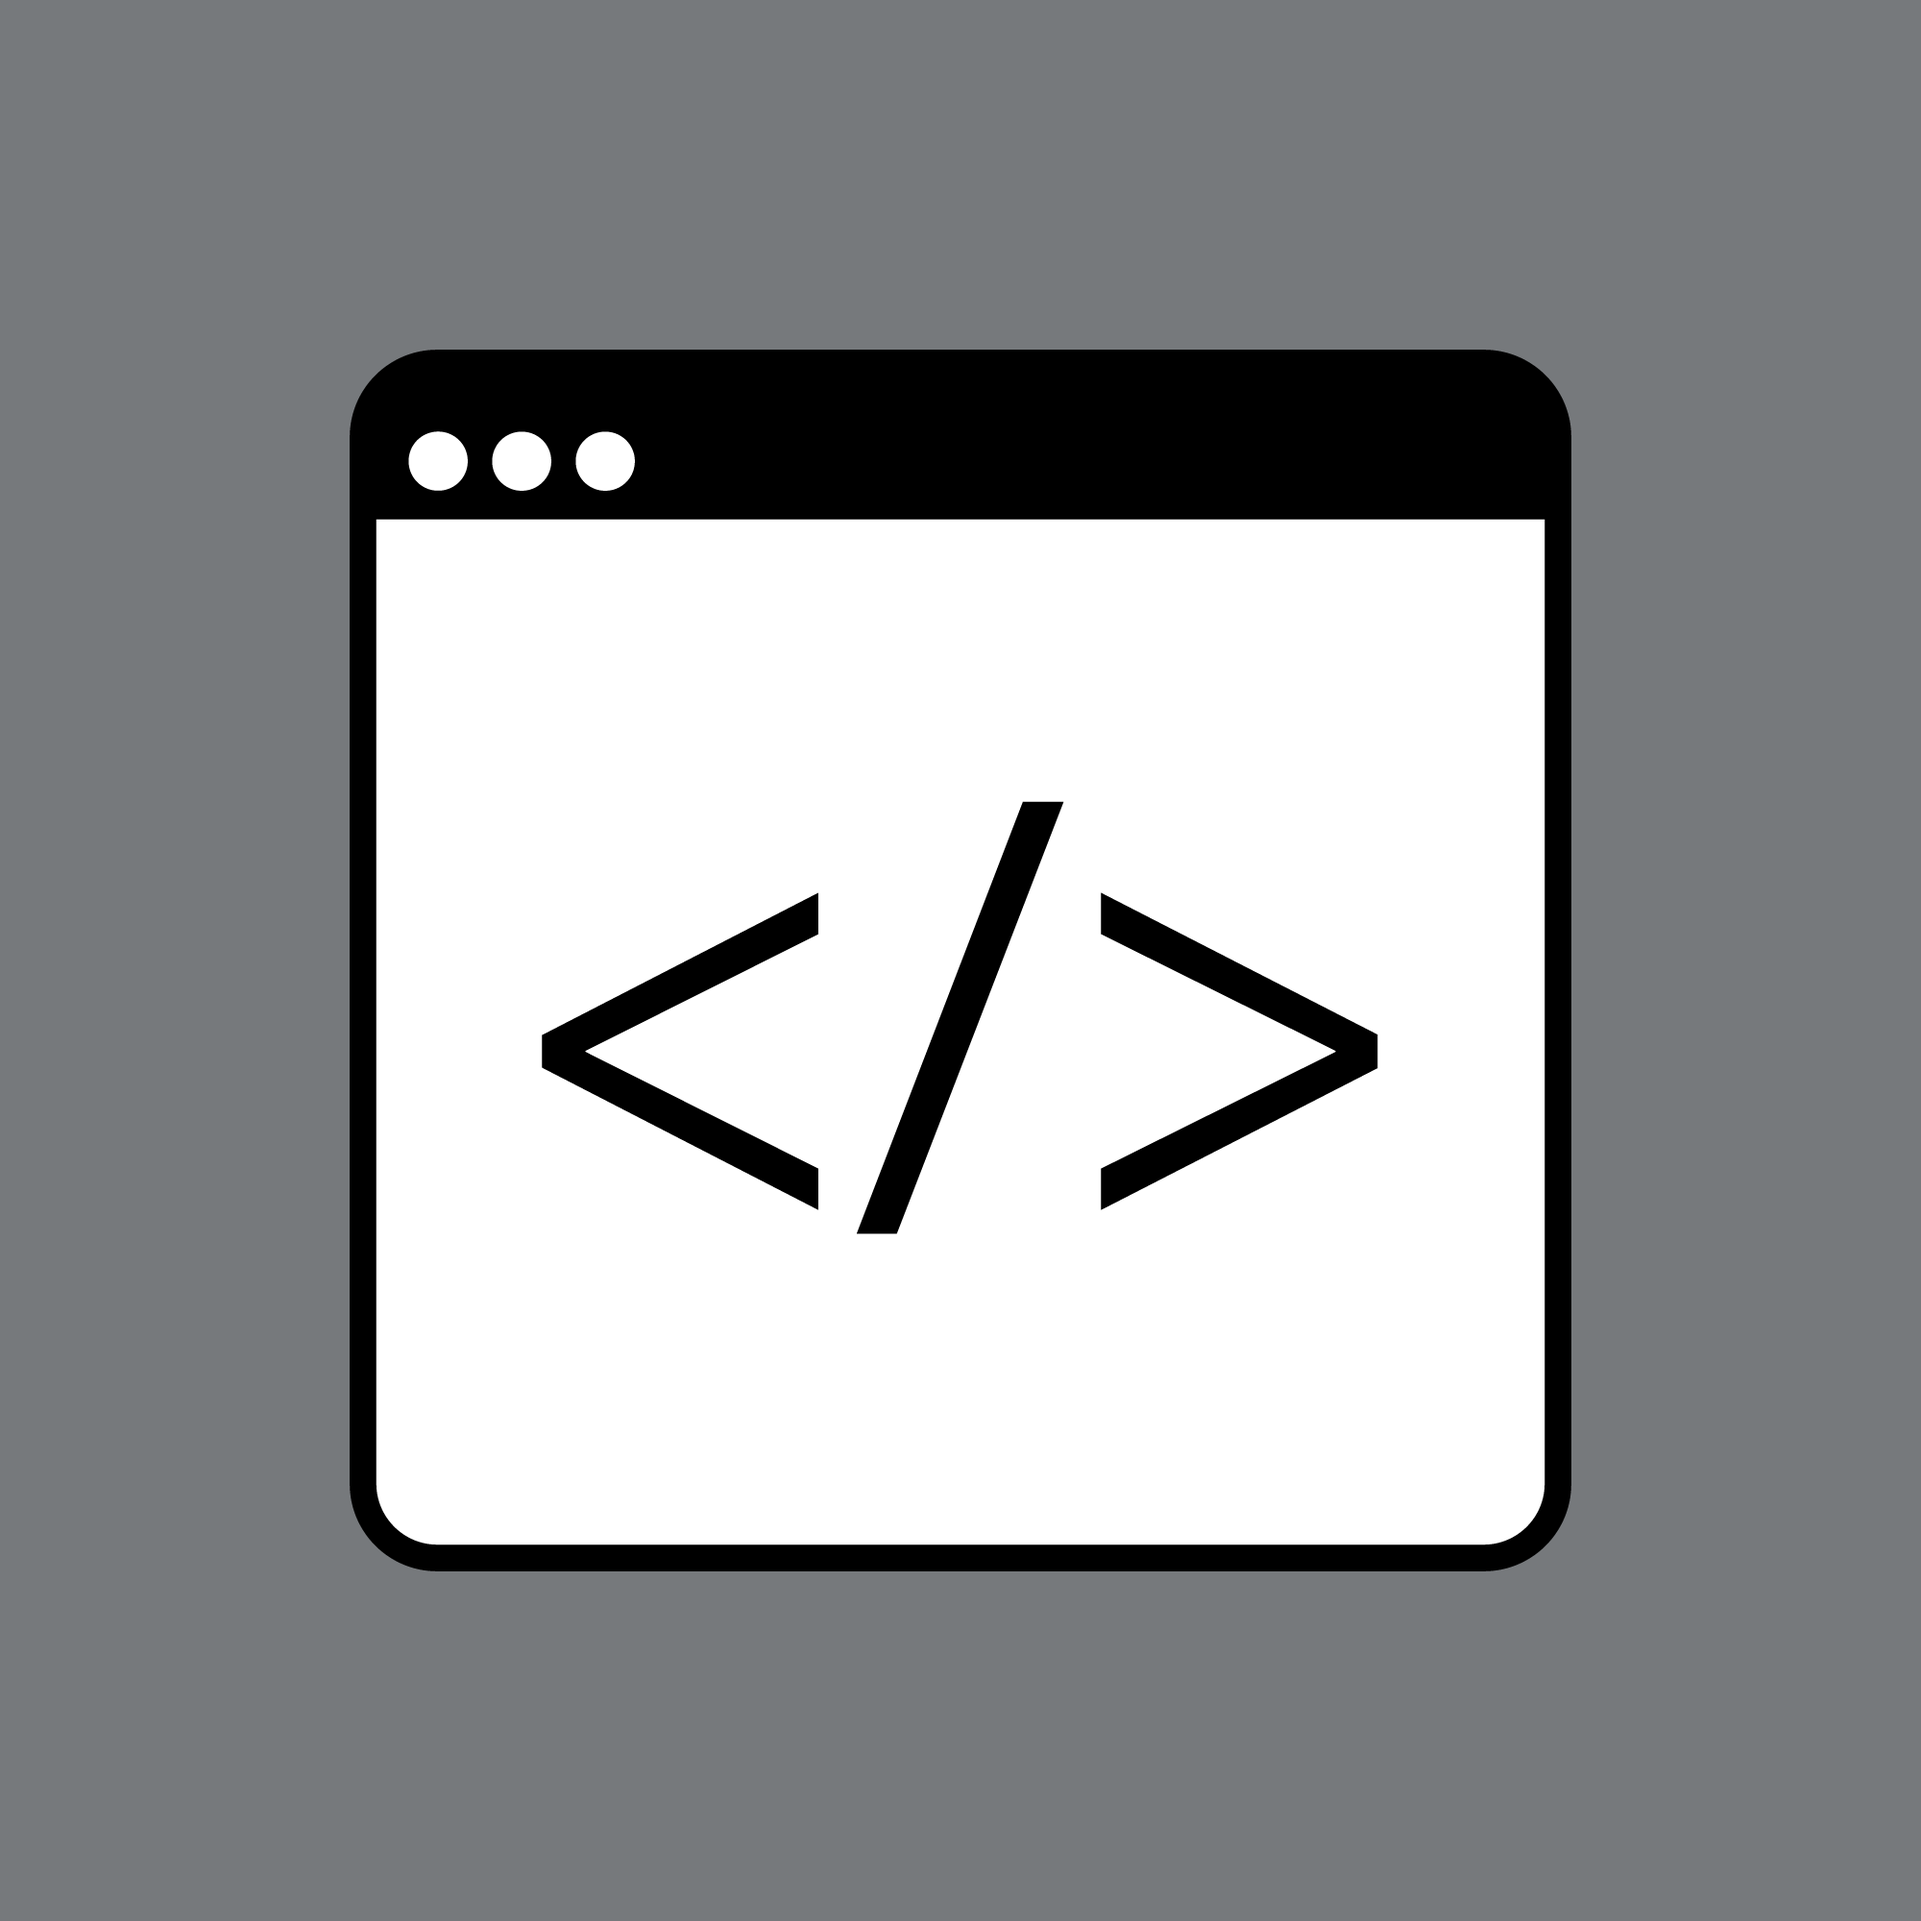
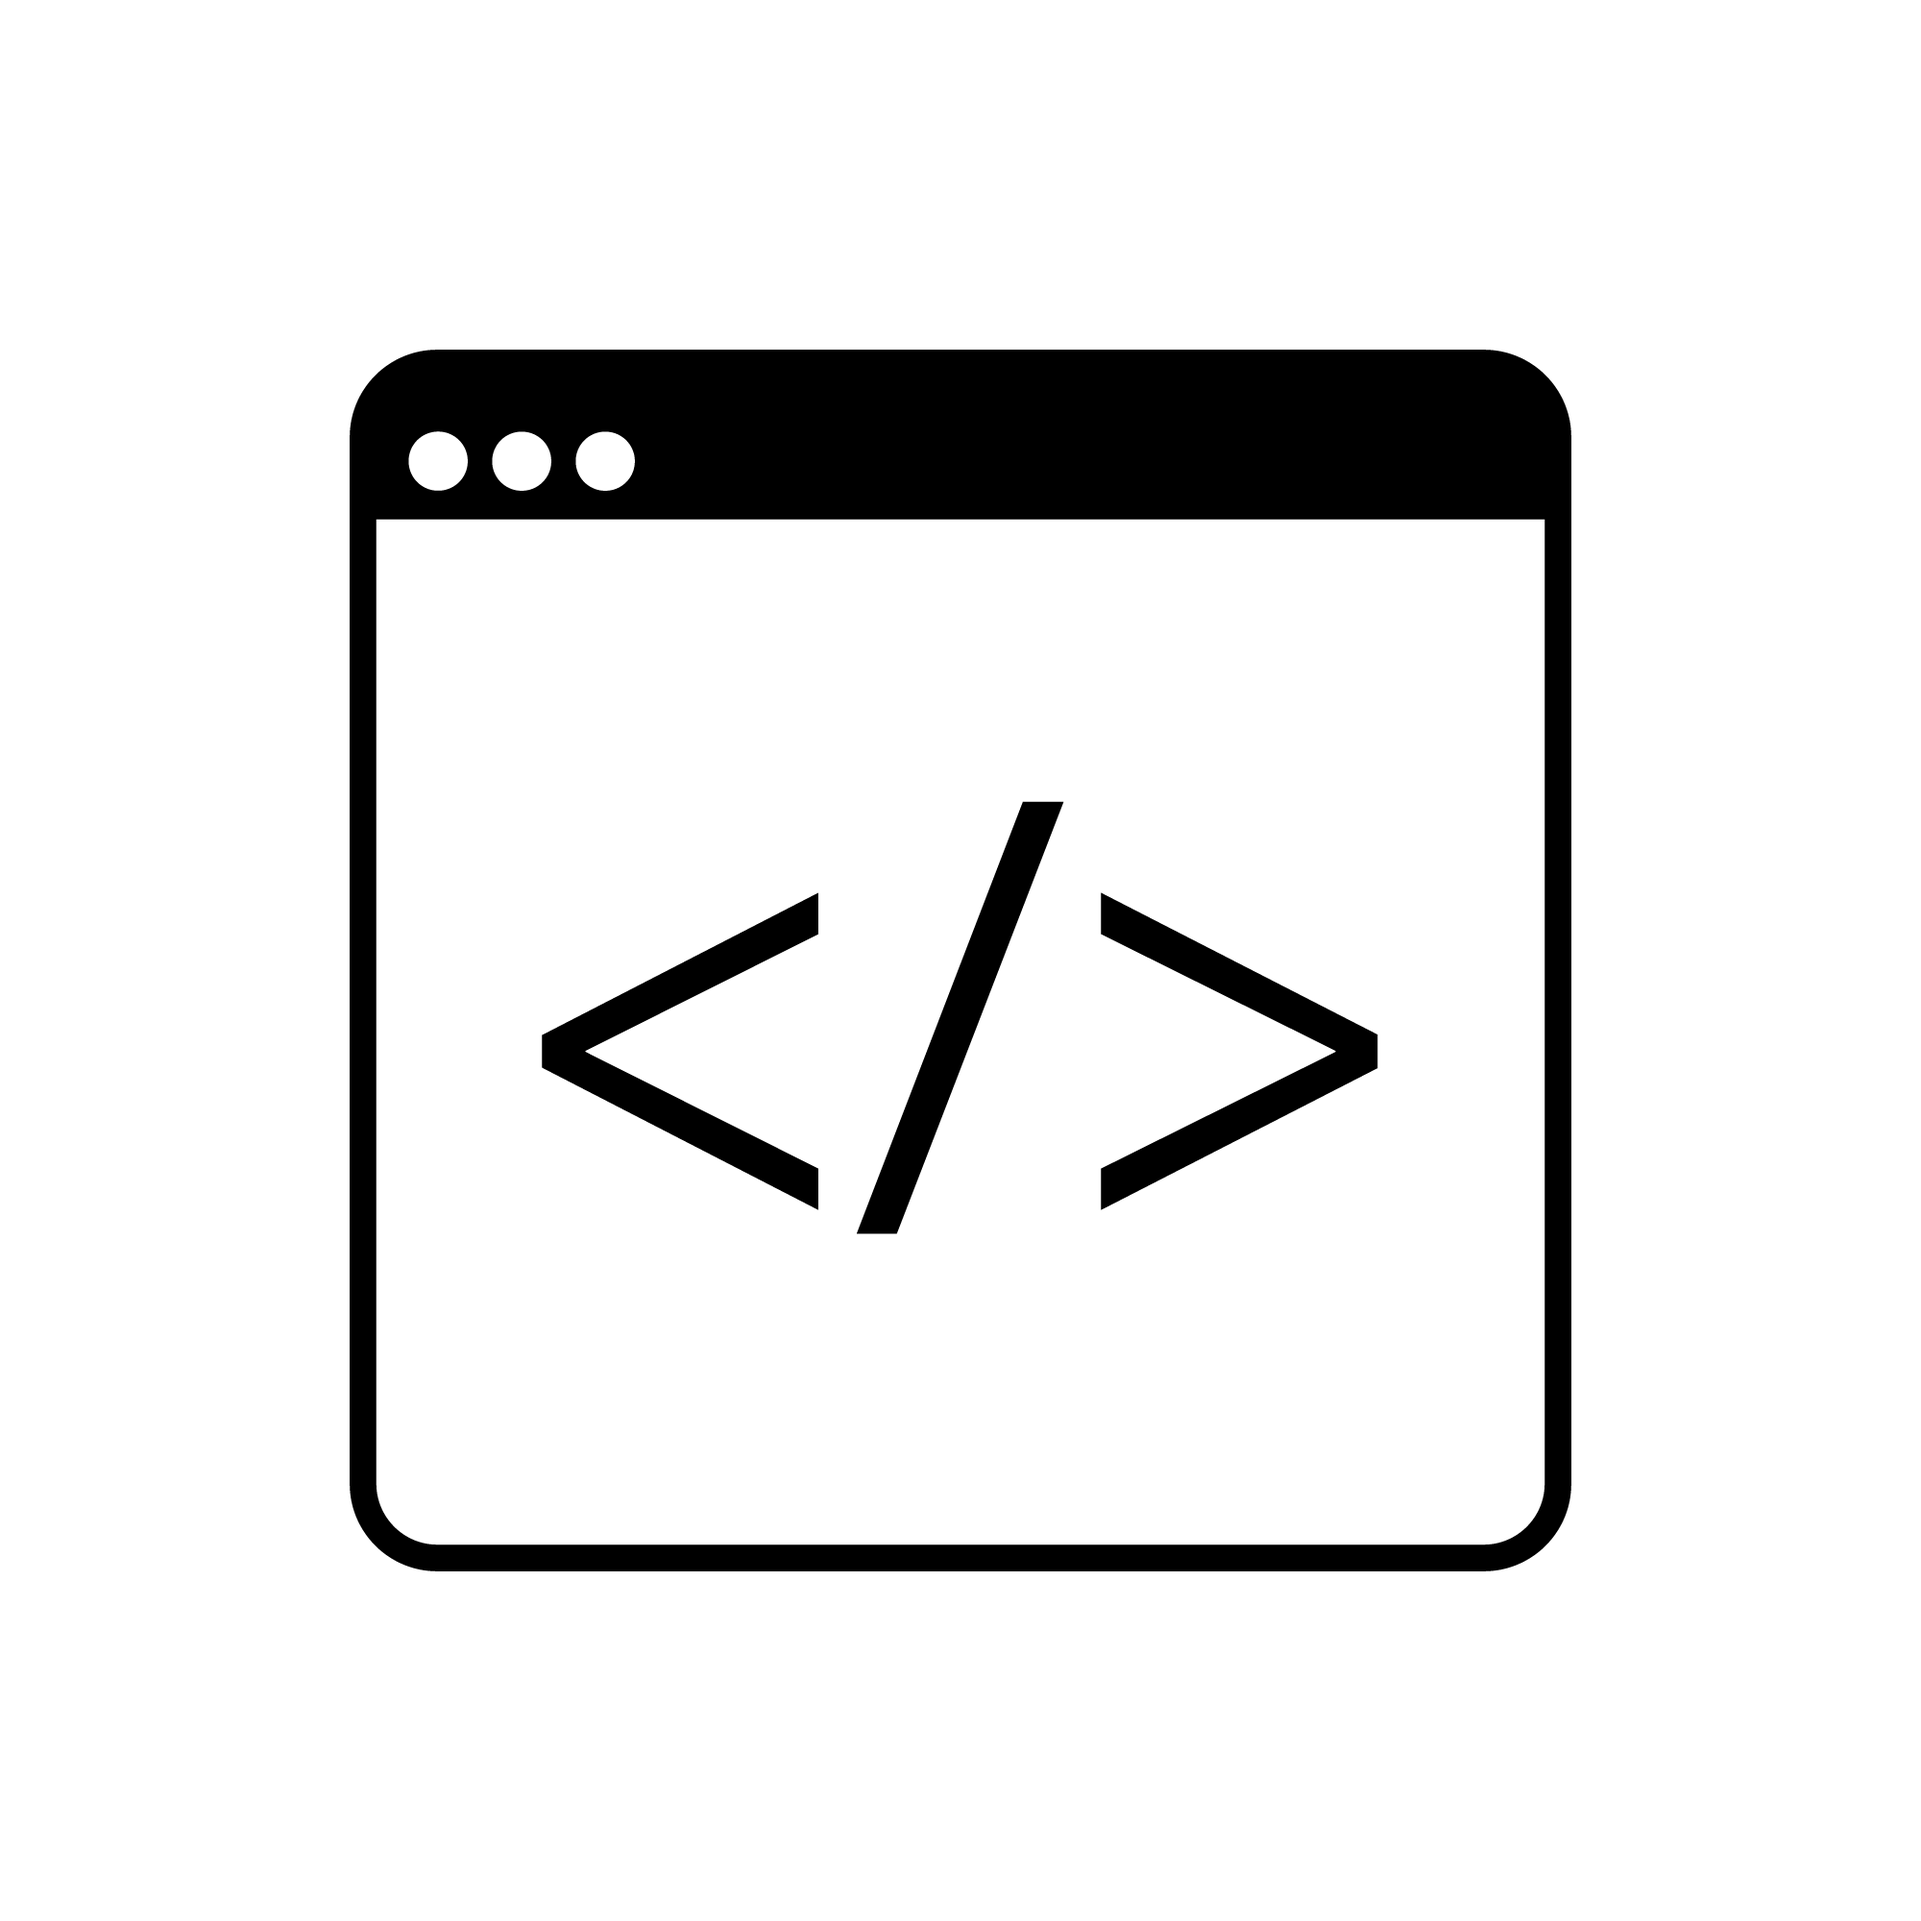
Deploy preview for PR 10 🛫

diff --git a/preview/pr-10/2019/01/07/example-post-1.html b/preview/pr-10/2019/01/07/example-post-1.html
@@ -61,10 +61,10 @@
 
   <meta name="author" content="sarah-johnson">
   <meta property="og:type" content="article">
-  <meta property="og:updated_time" content="2023-04-05T16:44:29+00:00">
+  <meta property="og:updated_time" content="2023-04-14T17:03:39+00:00">
   <meta property="article:published_time" content="2019-01-07T00:00:00+00:00">
-  <meta property="article:modified_time" content="2023-04-05T16:44:29+00:00">
-  <meta name="revised" content="2023-04-05T16:44:29+00:00">
+  <meta property="article:modified_time" content="2023-04-14T17:03:39+00:00">
+  <meta name="revised" content="2023-04-14T17:03:39+00:00">
 
 
 <script type="application/ld+json">
@@ -74,7 +74,7 @@
       "@type": "BlogPosting",
       "author": { "@type": "Person", "name": "Example post 1" },
       "datePublished": "2019-01-07T00:00:00+00:00",
-      "dateModified": "2023-04-05T16:44:29+00:00",
+      "dateModified": "2023-04-14T17:03:39+00:00",
     
     "name": "Example post 1",
     "description": "An engaging 1-3 sentence description of your lab.",
@@ -448,7 +448,7 @@
   
     <span data-tooltip="Last updated on">
       <i class="icon fa-solid fa-clock-rotate-left"></i>
-      <span>April 05, 2023</span>
+      <span>April 14, 2023</span>
     </span>
   
 </div>

diff --git a/preview/pr-10/2021/09/30/example-post-2.html b/preview/pr-10/2021/09/30/example-post-2.html
@@ -61,10 +61,10 @@
 
   <meta name="author" content="jane-smith">
   <meta property="og:type" content="article">
-  <meta property="og:updated_time" content="2023-04-05T16:44:29+00:00">
+  <meta property="og:updated_time" content="2023-04-14T17:03:39+00:00">
   <meta property="article:published_time" content="2021-09-30T00:00:00+00:00">
-  <meta property="article:modified_time" content="2023-04-05T16:44:29+00:00">
-  <meta name="revised" content="2023-04-05T16:44:29+00:00">
+  <meta property="article:modified_time" content="2023-04-14T17:03:39+00:00">
+  <meta name="revised" content="2023-04-14T17:03:39+00:00">
 
 
 <script type="application/ld+json">
@@ -74,7 +74,7 @@
       "@type": "BlogPosting",
       "author": { "@type": "Person", "name": "Example post 2" },
       "datePublished": "2021-09-30T00:00:00+00:00",
-      "dateModified": "2023-04-05T16:44:29+00:00",
+      "dateModified": "2023-04-14T17:03:39+00:00",
     
     "name": "Example post 2",
     "description": "An engaging 1-3 sentence description of your lab.",
@@ -448,7 +448,7 @@
   
     <span data-tooltip="Last updated on">
       <i class="icon fa-solid fa-clock-rotate-left"></i>
-      <span>April 05, 2023</span>
+      <span>April 14, 2023</span>
     </span>
   
 </div>

diff --git a/preview/pr-10/2023/02/23/example-post-3.html b/preview/pr-10/2023/02/23/example-post-3.html
@@ -61,10 +61,10 @@
 
   <meta name="author" content="john-doe">
   <meta property="og:type" content="article">
-  <meta property="og:updated_time" content="2023-04-05T16:44:29+00:00">
+  <meta property="og:updated_time" content="2023-04-14T17:03:39+00:00">
   <meta property="article:published_time" content="2023-02-23T00:00:00+00:00">
-  <meta property="article:modified_time" content="2023-04-05T16:44:29+00:00">
-  <meta name="revised" content="2023-04-05T16:44:29+00:00">
+  <meta property="article:modified_time" content="2023-04-14T17:03:39+00:00">
+  <meta name="revised" content="2023-04-14T17:03:39+00:00">
 
 
 <script type="application/ld+json">
@@ -74,7 +74,7 @@
       "@type": "BlogPosting",
       "author": { "@type": "Person", "name": "Example post 3" },
       "datePublished": "2023-02-23T00:00:00+00:00",
-      "dateModified": "2023-04-05T16:44:29+00:00",
+      "dateModified": "2023-04-14T17:03:39+00:00",
     
     "name": "Example post 3",
     "description": "An engaging 1-3 sentence description of your lab.",
@@ -448,7 +448,7 @@
   
     <span data-tooltip="Last updated on">
       <i class="icon fa-solid fa-clock-rotate-left"></i>
-      <span>April 05, 2023</span>
+      <span>April 14, 2023</span>
     </span>
   
 </div>

diff --git a/preview/pr-10/software/index.html b/preview/pr-10/software/index.html
@@ -446,7 +446,7 @@
 
 <div class="card" data-style="medium">
   <a href="https://github.com/mphowardlab/relentless" class="card-image">
-    <img src="/preview/pr-10/images/software.png" loading="lazy" onerror="this.src = '/preview/pr-10/images/fallback.svg'; this.onerror = null;">
+    <img src="/preview/pr-10/images/relentless_icon.png" loading="lazy" onerror="this.src = '/preview/pr-10/images/fallback.svg'; this.onerror = null;">
   </a>
 
   <div class="card-text">
